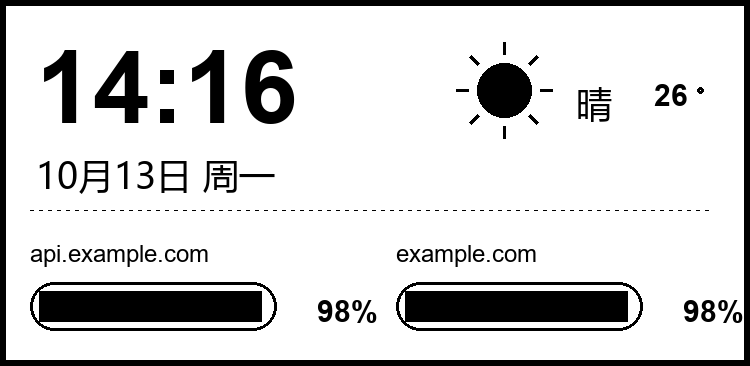
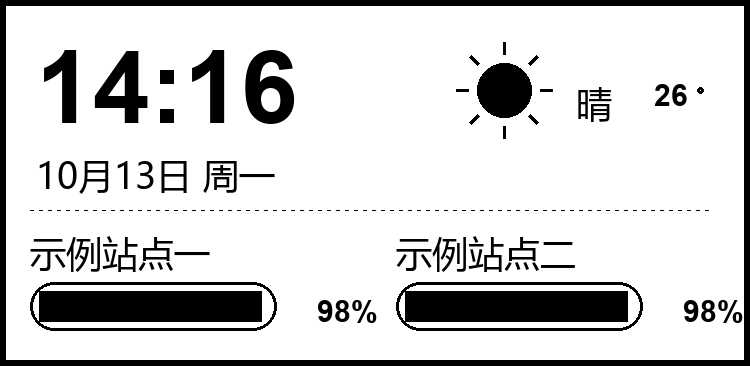
站点显示改为中文备注（config 的 name 字段），无数据时显示 --%，同步更新预览图与文档

Changed region(s): [[0.5213, 0.6311, 0.7667, 0.7514], [0.0307, 0.6311, 0.276, 0.7514]]

diff --git a/src/ui.cpp b/src/ui.cpp
@@ -203,8 +203,8 @@ void uiDraw(const AppConfig& cfg, const struct tm& now,
     for (uint8_t i = 0; i < 2; i++) {
         int16_t x0 = 10 + i * 122;
 
-        // 域名标题
-        u8g2.setFont(u8g2_font_helvB08_tf);
+        // 站点备注（支持中文，来自 config.json 的 name 字段）
+        u8g2.setFont(u8g2_font_wqy12_t_gb2312);
         u8g2.setCursor(x0, 88);
         u8g2.print(i < cfg.checkCount ? cfg.checks[i].name.c_str() : "");
 
@@ -213,7 +213,7 @@ void uiDraw(const AppConfig& cfg, const struct tm& now,
 
         // 百分比（右对齐）
         if (percent[i] == 255) {
-            snprintf(buf, sizeof(buf), "--");
+            snprintf(buf, sizeof(buf), "--%%");   // 无数据时显示 --%
         } else {
             snprintf(buf, sizeof(buf), "%u%%", (unsigned)percent[i]);
         }

diff --git a/tools/render_preview.py b/tools/render_preview.py
@@ -81,11 +81,11 @@ d.ellipse([px(218 + temp_w + 3), px(29), px(218 + temp_w + 5), px(31)],
 for x in range(10, W - 12, 3):
     d.rectangle([px(x), px(70), px(x + 1), px(70)], fill=BLACK)
 
-# 两列可用性
-columns = [("api.example.com", 98), ("example.com", 98)]
+# 两列可用性（config.json 的 name 备注，支持中文）
+columns = [("示例站点一", 98), ("示例站点二", 98)]
 for i, (name, percent) in enumerate(columns):
     x0 = 10 + i * 122
-    d.text((px(x0), px(80)), name, font=font_small, fill=BLACK)
+    d.text((px(x0), px(76)), name, font=font_cjk, fill=BLACK)
     draw_bar(x0, 94, 82, 16, percent)
     text = f"{percent}%"
     tw = d.textlength(text, font=font_num) / SCALE

diff --git a/README.md b/README.md
@@ -51,7 +51,11 @@ pio run -t upload
 | `weather_refresh_minutes` | 天气更新间隔（分钟） | `10` |
 | `checks` | 可用性检测目标列表（最多 2 个） | 见示例文件 |
 
-`checks` 每项包含 `name`（屏幕显示名称）与 `url`（检测地址）。
+`checks` 每项包含两个字段：
+
+- `name`：屏幕显示的**备注名称（支持中文）**，如"公司官网""小程序API"；
+  网址太长时不建议直接显示，用中文备注更清晰
+- `url`：实际检测地址（支持 http / https）
 
 ## 工作机制
 
